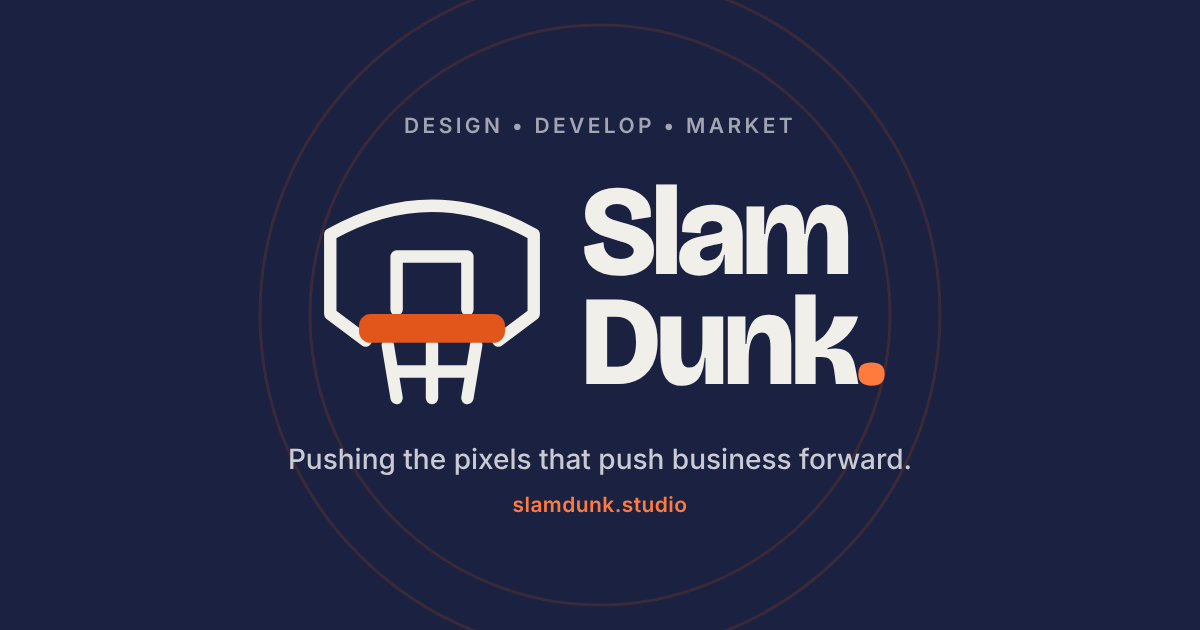
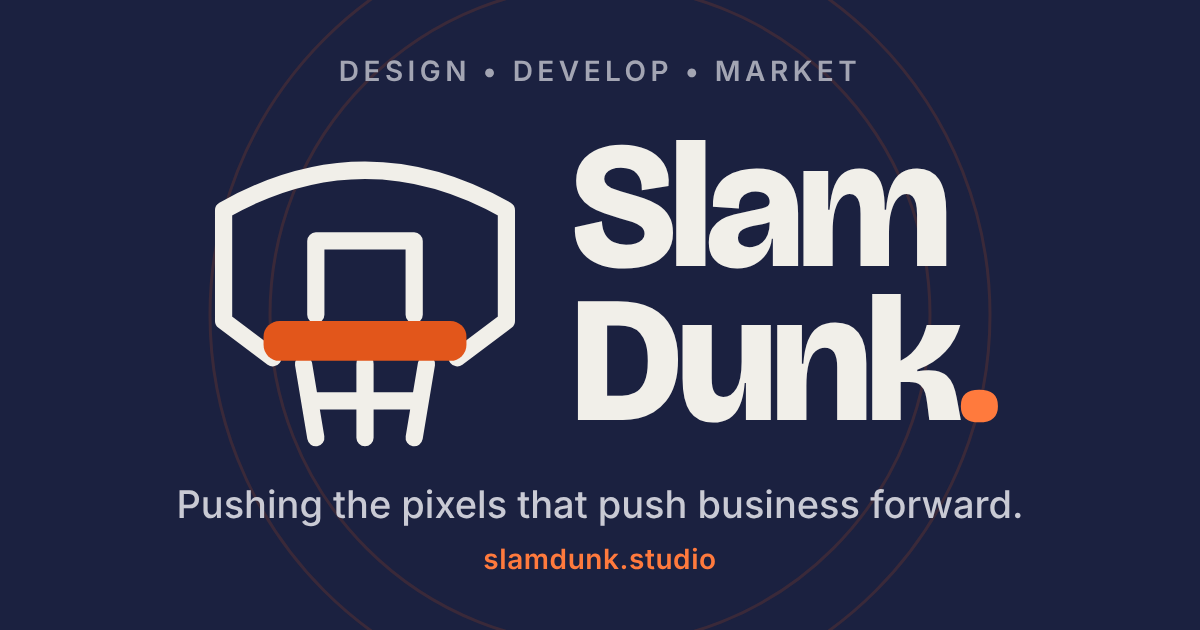
Make the link preview content larger
Scales the hoop, wordmark and lines up about 1.4x so they fill most of the frame,
and adds ?v=2 to the image URL so apps that cached the old preview fetch the new one.

Claude-Session: https://claude.ai/code/session_01PpiA3LZ5qMLQBcko5Pg7C9

diff --git a/tools/og.html b/tools/og.html
@@ -9,17 +9,17 @@ body{width:1200px;height:630px;overflow:hidden;position:relative;background:#1b2
 .court{position:absolute;inset:0;z-index:0}
 .court *{fill:none;stroke:rgba(226,86,27,.16);stroke-width:3}
 body>*:not(.court){position:relative;z-index:1}
-.eyebrow{font-size:21px;letter-spacing:.16em;text-transform:uppercase;font-weight:600;color:#a3a5b3;margin:0 0 30px}
-.mark{display:flex;align-items:center;gap:34px}
-.hoop{width:230px;height:239px;flex:none}
-h1{font-family:"Bricolage Grotesque",sans-serif;font-variation-settings:"opsz" 96;font-weight:800;font-size:128px;line-height:.86;letter-spacing:-.035em;margin:0;text-align:left}
+.eyebrow{font-size:28px;letter-spacing:.16em;text-transform:uppercase;font-weight:600;color:#a3a5b3;margin:0 0 30px}
+.mark{display:flex;align-items:center;gap:46px}
+.hoop{width:320px;height:332px;flex:none}
+h1{font-family:"Bricolage Grotesque",sans-serif;font-variation-settings:"opsz" 96;font-weight:800;font-size:180px;line-height:.86;letter-spacing:-.035em;margin:0;text-align:left}
 h1 .dot{color:#ff7a3d}
-.lede{font-size:28px;line-height:1.35;color:#c9cad4;margin:34px 0 0;font-weight:500}
-.url{font-size:21px;font-weight:600;letter-spacing:.02em;color:#ff7a3d;margin-top:14px}
+.lede{font-size:38px;line-height:1.3;color:#c9cad4;margin:30px 0 0;font-weight:500}
+.url{font-size:28px;font-weight:600;letter-spacing:.02em;color:#ff7a3d;margin-top:12px}
 </style></head><body>
 <svg class="court" viewBox="0 0 1200 630" aria-hidden="true">
-  <circle cx="600" cy="315" r="290"/>
-  <circle cx="600" cy="315" r="340"/>
+  <circle cx="600" cy="315" r="330"/>
+  <circle cx="600" cy="315" r="390"/>
 </svg>
 <p class="eyebrow">Design • Develop • Market</p>
 <div class="mark">

diff --git a/index.html b/index.html
@@ -10,7 +10,7 @@
 <meta property="og:url" content="https://slamdunk.studio/">
 <meta property="og:title" content="Slam Dunk">
 <meta property="og:description" content="Design, develop, market. Pushing the pixels that push business forward.">
-<meta property="og:image" content="https://slamdunk.studio/og.png">
+<meta property="og:image" content="https://slamdunk.studio/og.png?v=2">
 <meta property="og:image:type" content="image/png">
 <meta property="og:image:width" content="1200">
 <meta property="og:image:height" content="630">
@@ -18,7 +18,7 @@
 <meta name="twitter:card" content="summary_large_image">
 <meta name="twitter:title" content="Slam Dunk">
 <meta name="twitter:description" content="Design, develop, market. Pushing the pixels that push business forward.">
-<meta name="twitter:image" content="https://slamdunk.studio/og.png">
+<meta name="twitter:image" content="https://slamdunk.studio/og.png?v=2">
 <meta name="twitter:image:alt" content="Slam Dunk wordmark with a basketball hoop on navy. Design, develop, market.">
 <link rel="icon" href="favicon.svg?v=2" type="image/svg+xml">
 <link rel="icon" href="favicon-32.png?v=2" type="image/png" sizes="32x32">
